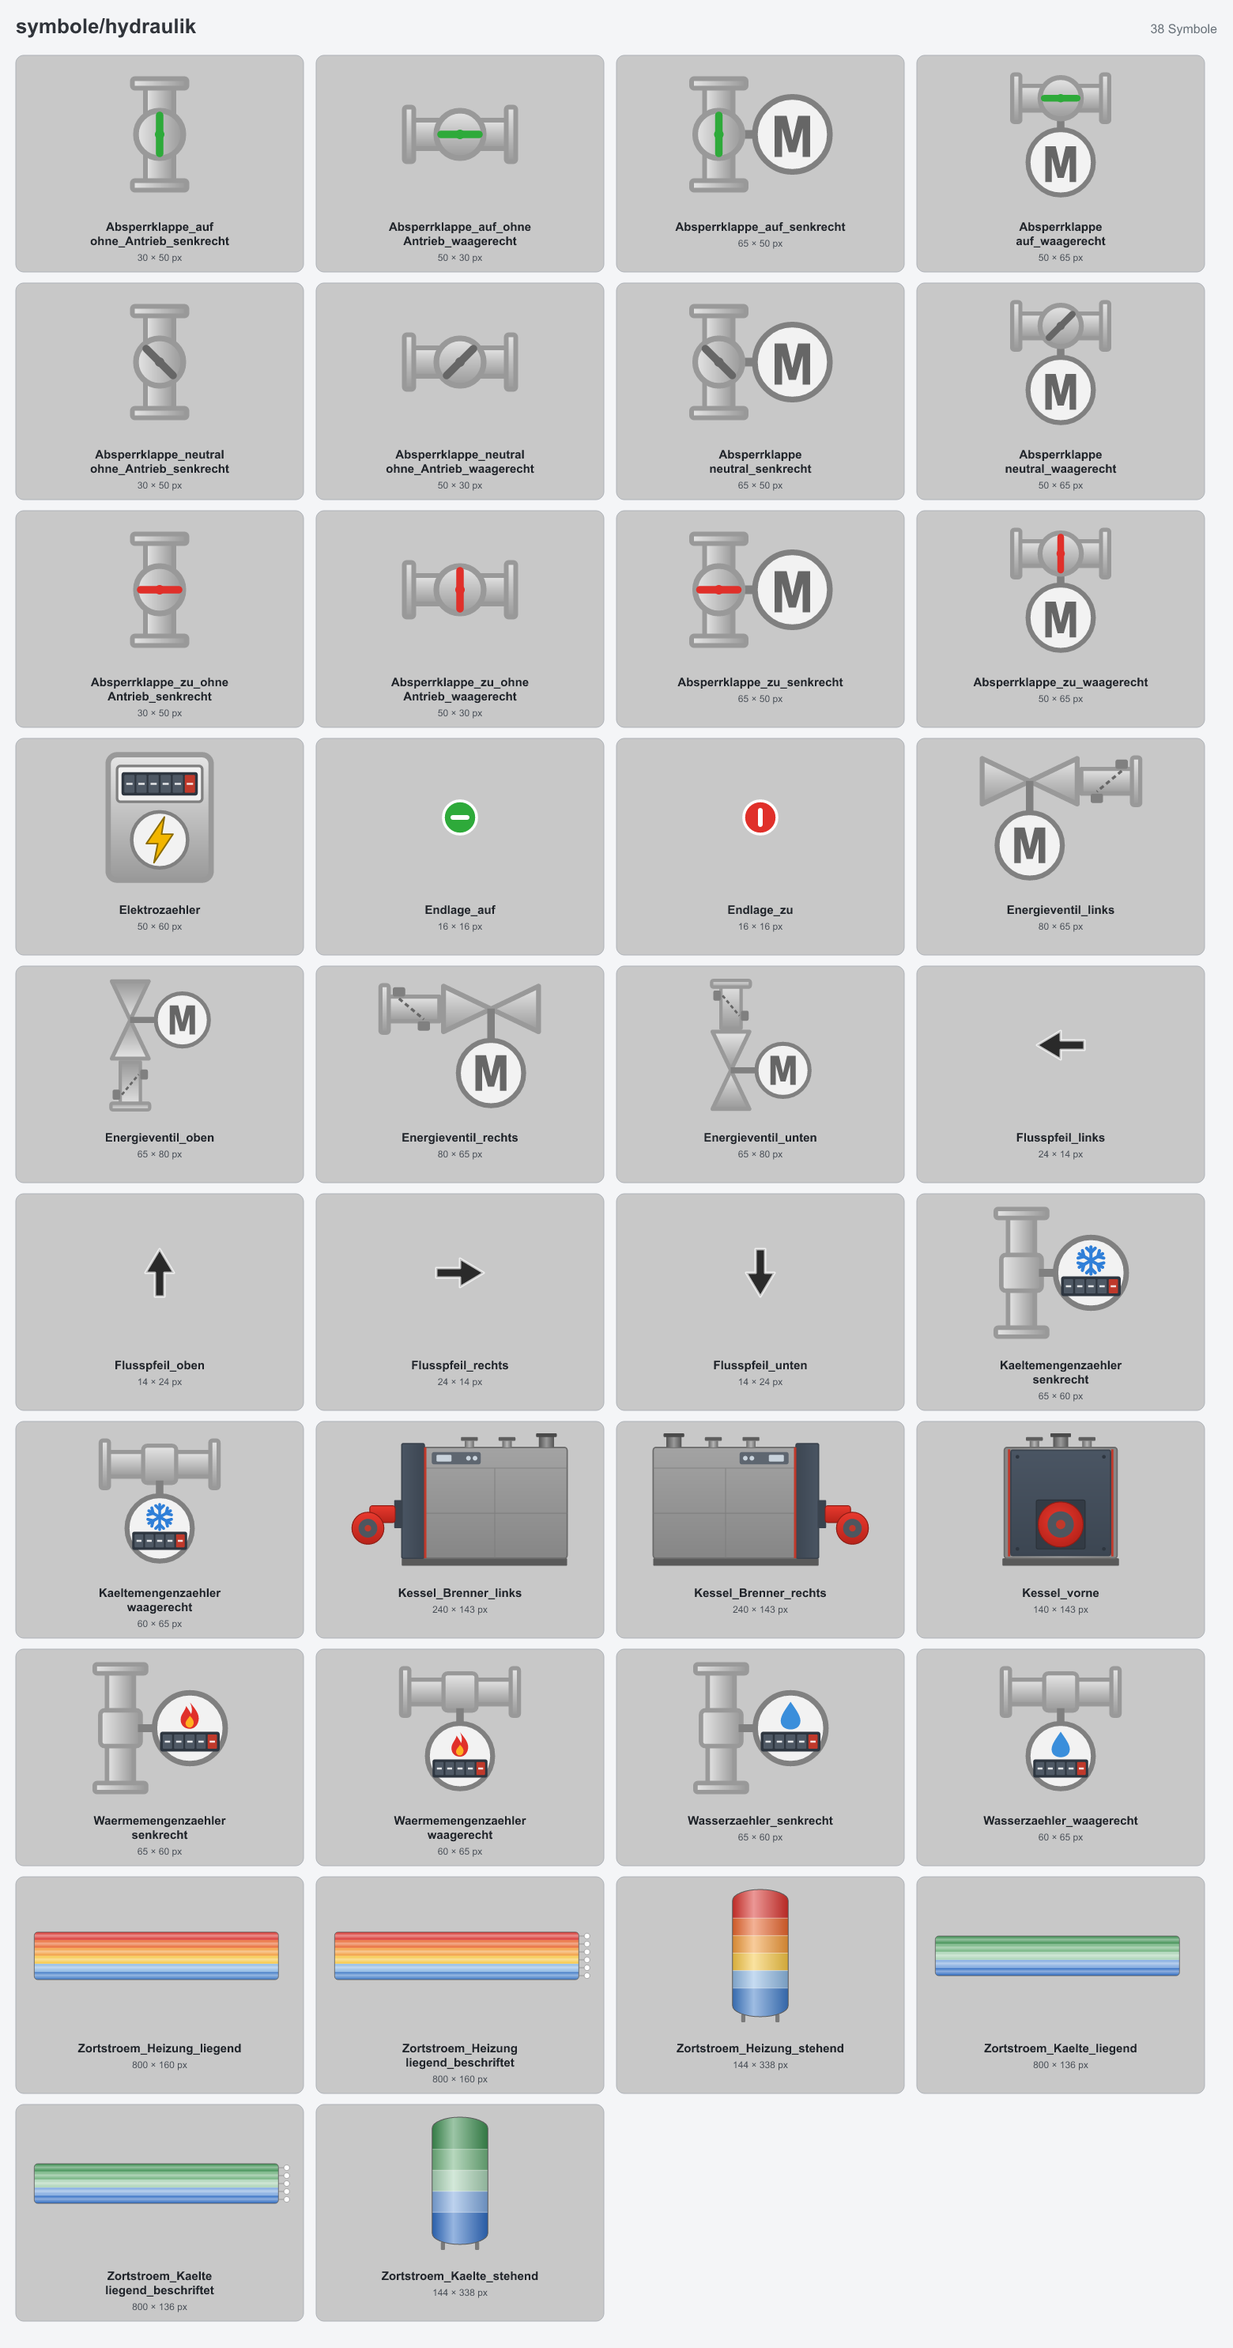
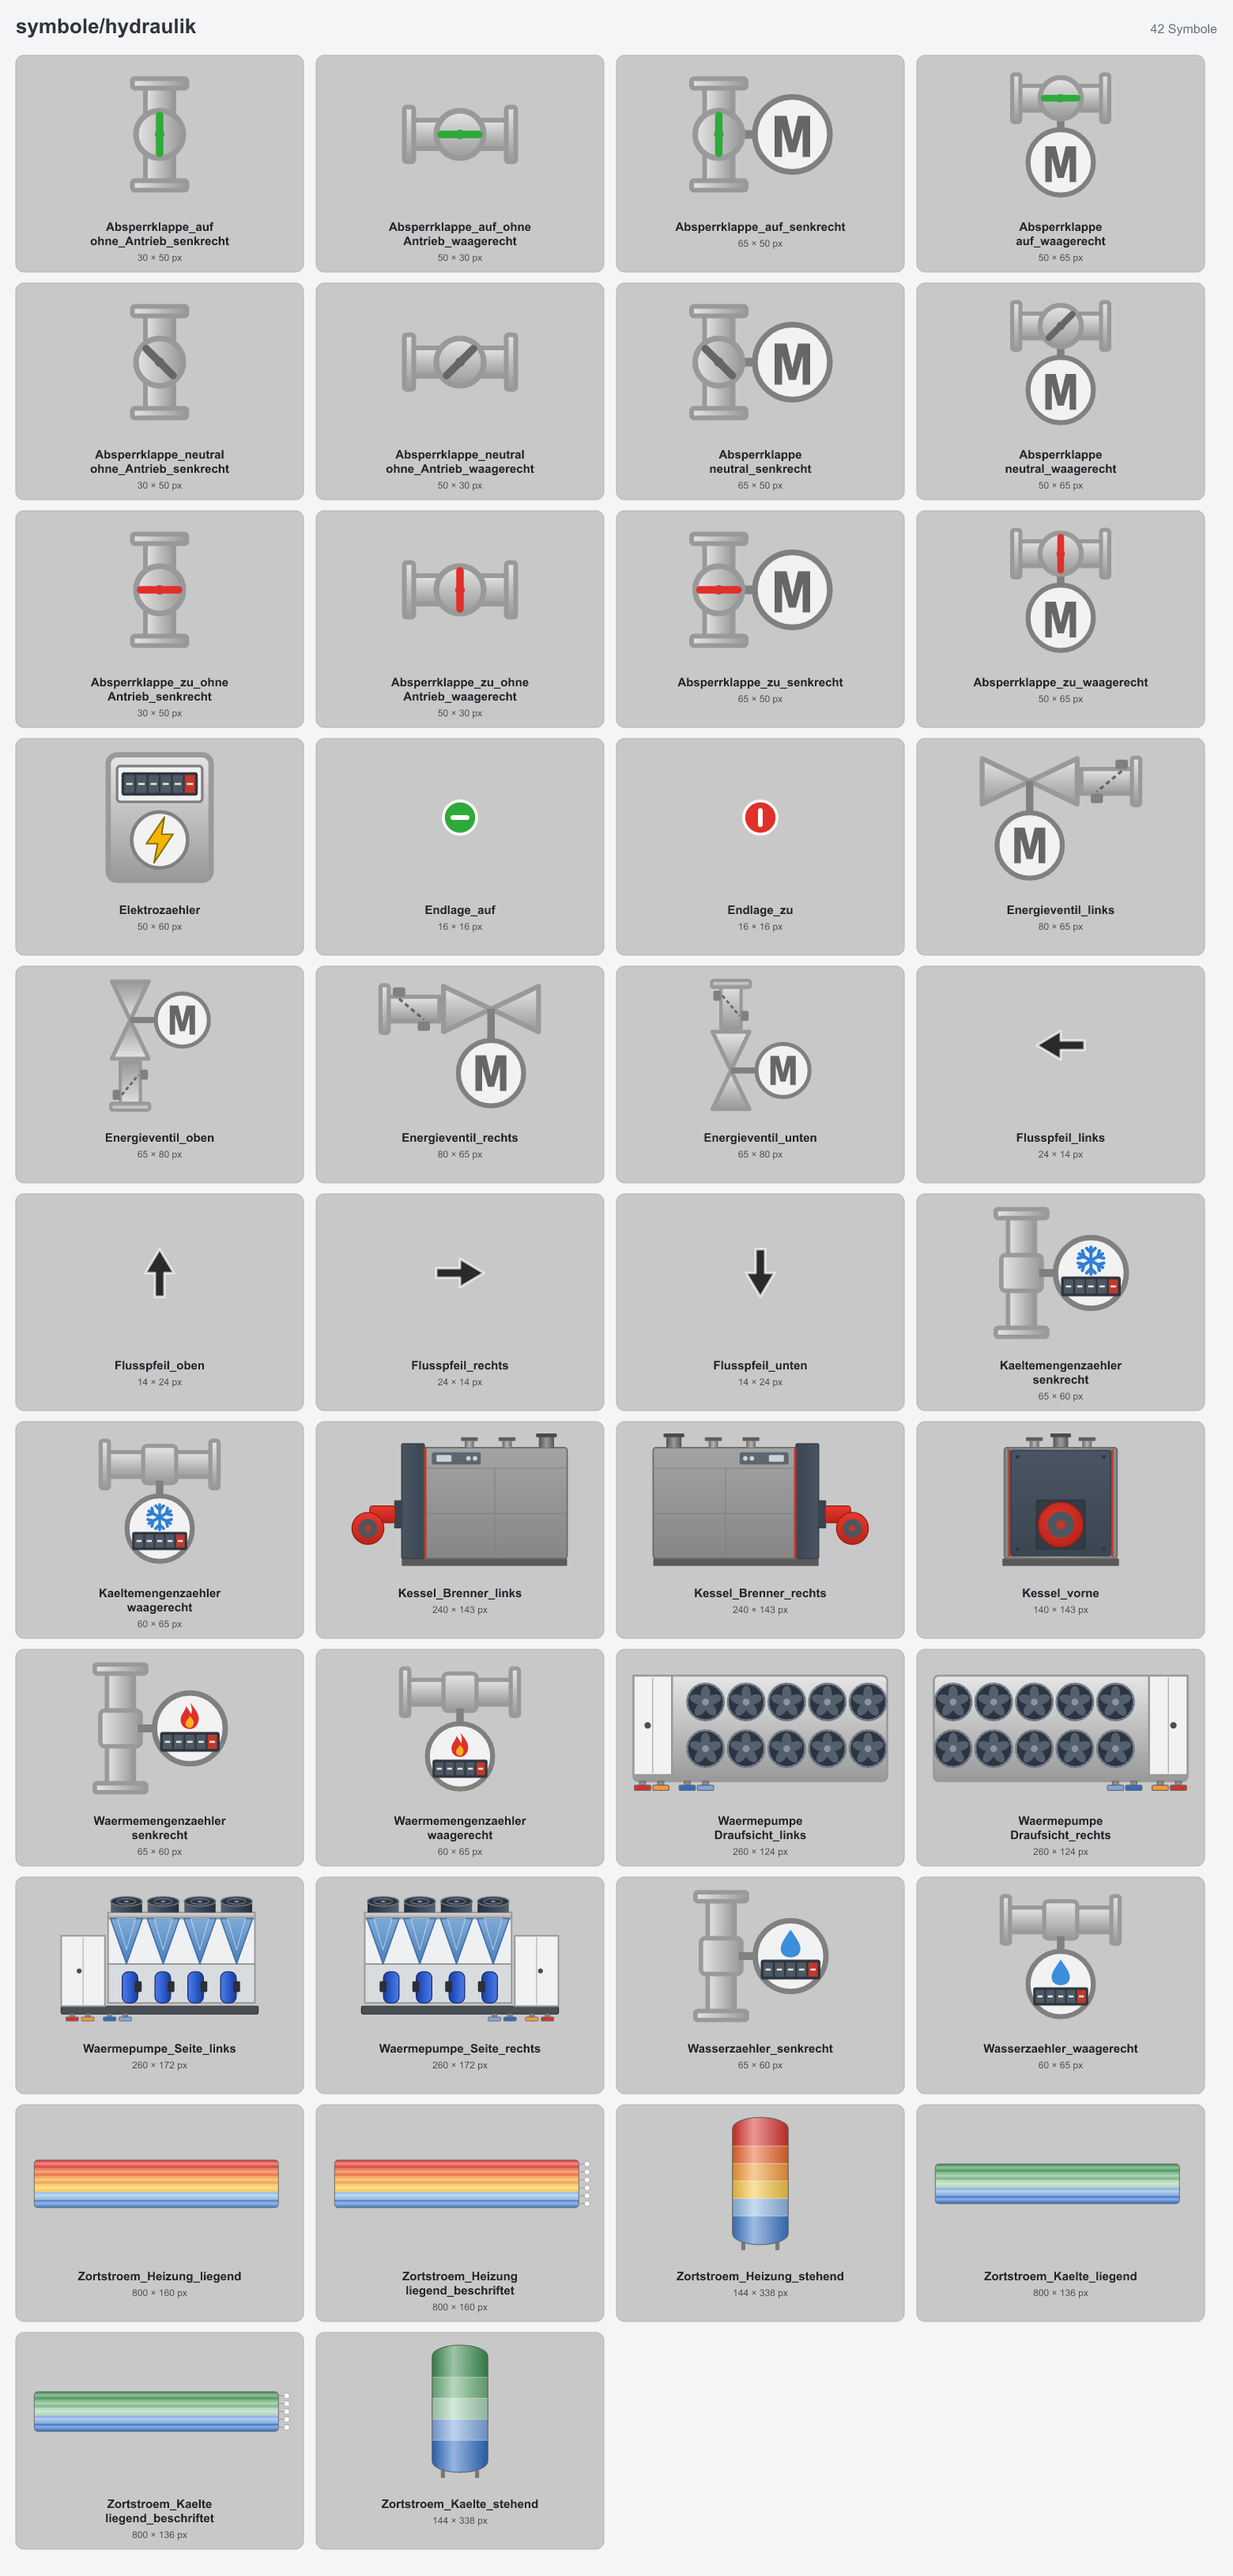
Wärmepumpe/Kältemaschine mit Heizen- und Kühlen-Anschlüssen
Seitenansicht und Draufsicht, Anschluss links/rechts, je vier Flansche
(Heizen VL/RL, Kühlen VL/RL). Katalog und Übersicht aktualisiert.

Changed region(s): [[0.0, 0.0, 0.9846, 0.9912], [0.9231, 0.0, 0.9846, 0.031]]

diff --git a/docs/SYMBOLKATALOG.md b/docs/SYMBOLKATALOG.md
@@ -58,6 +58,19 @@ Farben Kälte (oben → unten): `#3A8C4E`, `#6DB07B`, `#A8D2B4`, `#7CA6DE`, `#2E
   - Brenner rechts: Vorlauf x = 110, Rücklauf x = 70.
 - Vorderansicht 140 × 143: Vorlauf x = 42, Rücklauf x = 98, Abgas mittig dahinter.
 
+### Wärmepumpe / Kältemaschine (luftgekühlt, Monoblock)
+
+Neutral gezeichnet, ohne Logos. Jedes Gerät hat immer beide Kreise: Heizen (Kondensatorseite) und Kühlen (Verdampferseite), jeweils mit Vorlauf (VL) und Rücklauf (RL). Die vier Anschlüsse sind nur als angedeutete Flansche an der Unterkante dargestellt, der Schaltschrank sitzt auf der Anschlussseite. „links/rechts“ bezeichnet die Anschlussseite.
+
+| Symbol | Größe | Anschlusspunkte (x; y = Unterkante) |
+|---|---|---|
+| `Waermepumpe_Seite_links` | 260 × 172 | Heizen VL 18, RL 38; Kühlen VL 66, RL 86; y = 172 |
+| `Waermepumpe_Seite_rechts` | 260 × 172 | Heizen VL 242, RL 222; Kühlen VL 194, RL 174; y = 172 |
+| `Waermepumpe_Draufsicht_links` | 260 × 124 | Heizen VL 14, RL 32; Kühlen VL 58, RL 76; y = 124 |
+| `Waermepumpe_Draufsicht_rechts` | 260 × 124 | Heizen VL 246, RL 228; Kühlen VL 202, RL 184; y = 124 |
+
+Flanschfarben: Heizen VL `#D7302B`, RL `#F29A38`; Kühlen VL `#2E6BC2`, RL `#7CA6DE`. Die Bezeichnung der Kreise erfolgt über Labels, z. B. `WP01-H`, `WP01-K` (siehe Anlagenkennzeichnung im Styleguide).
+
 ### Absperrklappe Wasser
 
 - Waagerecht: mit Antrieb 50 × 65, ohne Antrieb 50 × 30, Rohrachse y = 15 (`Absperrklappe_<Stellung>[_ohne_Antrieb]_waagerecht`).
